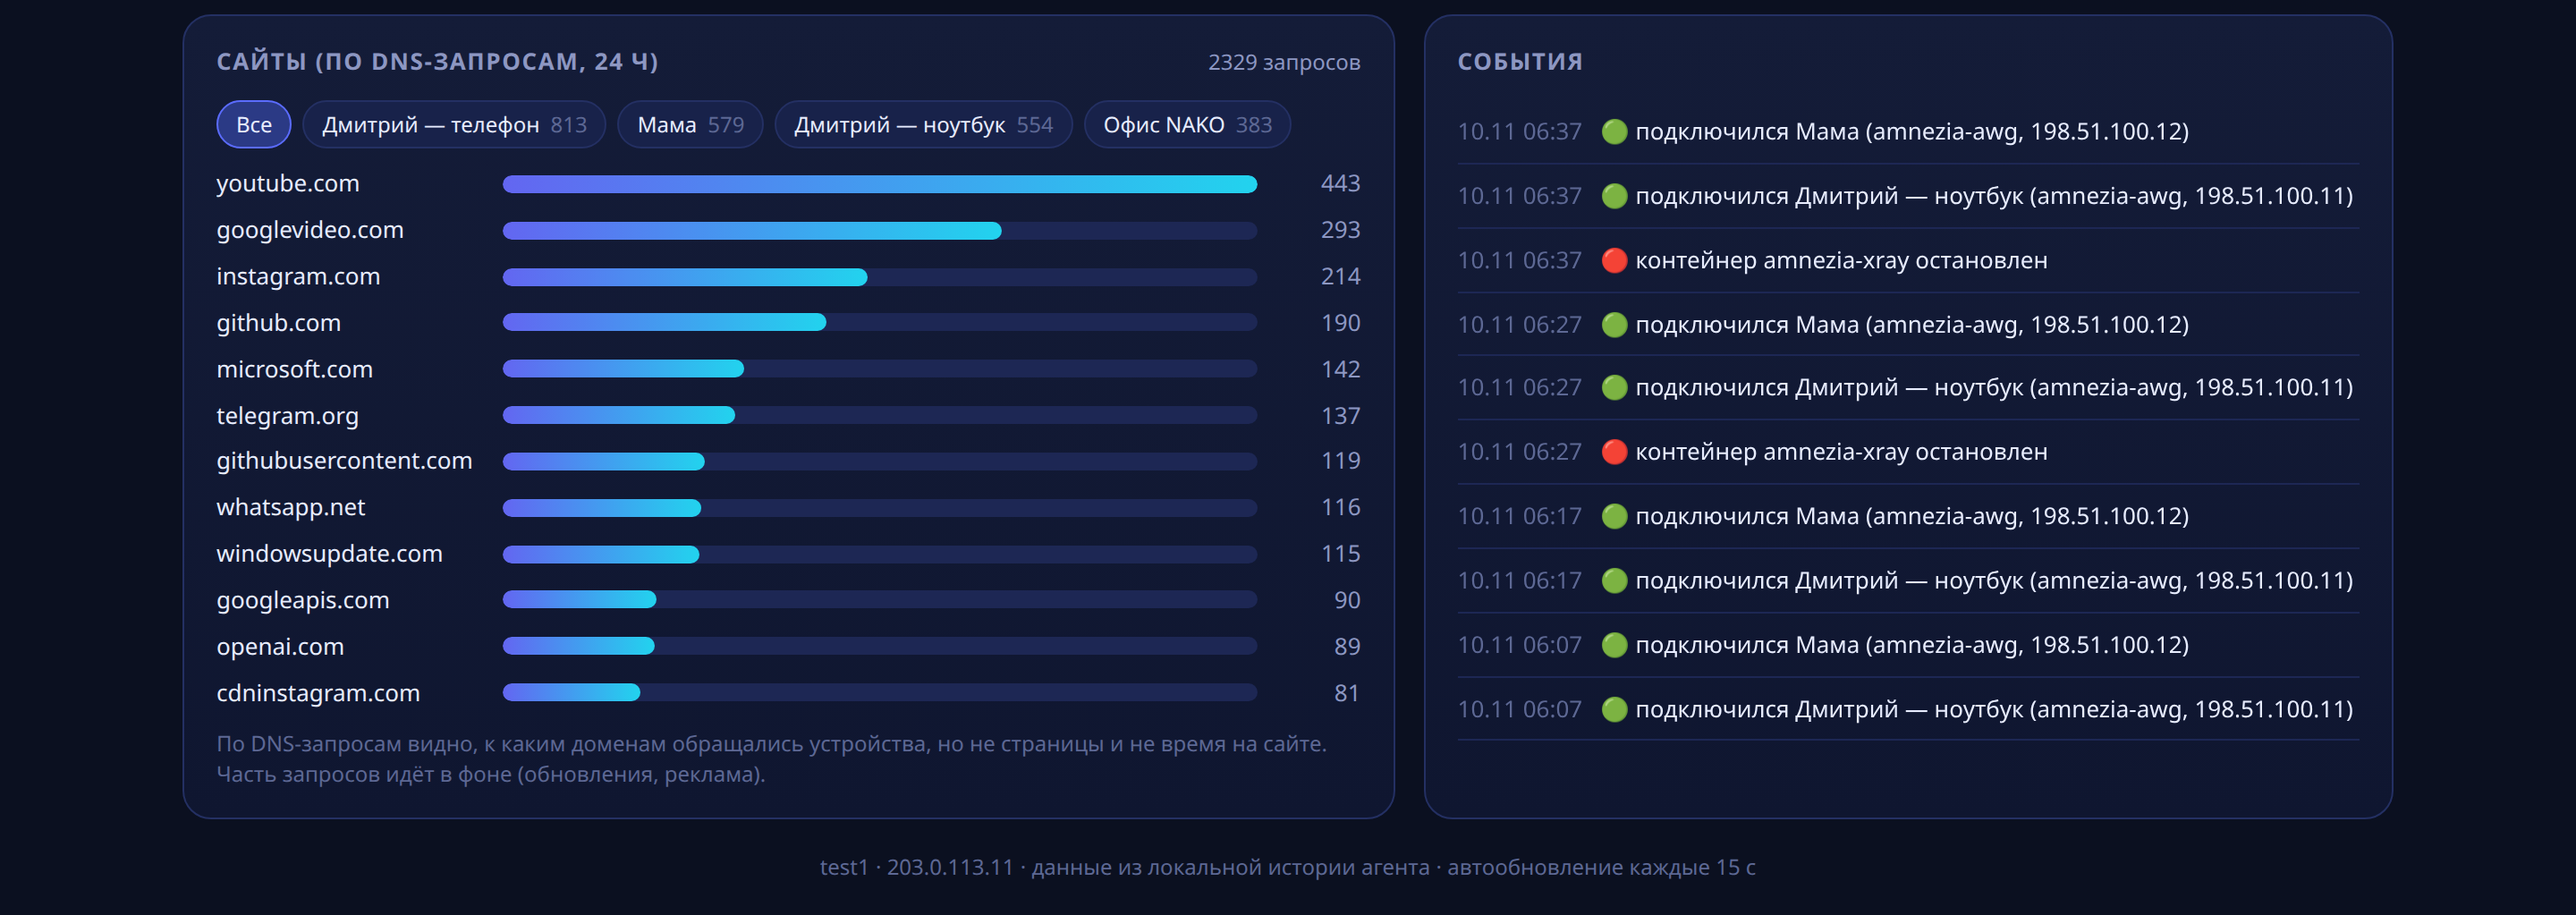
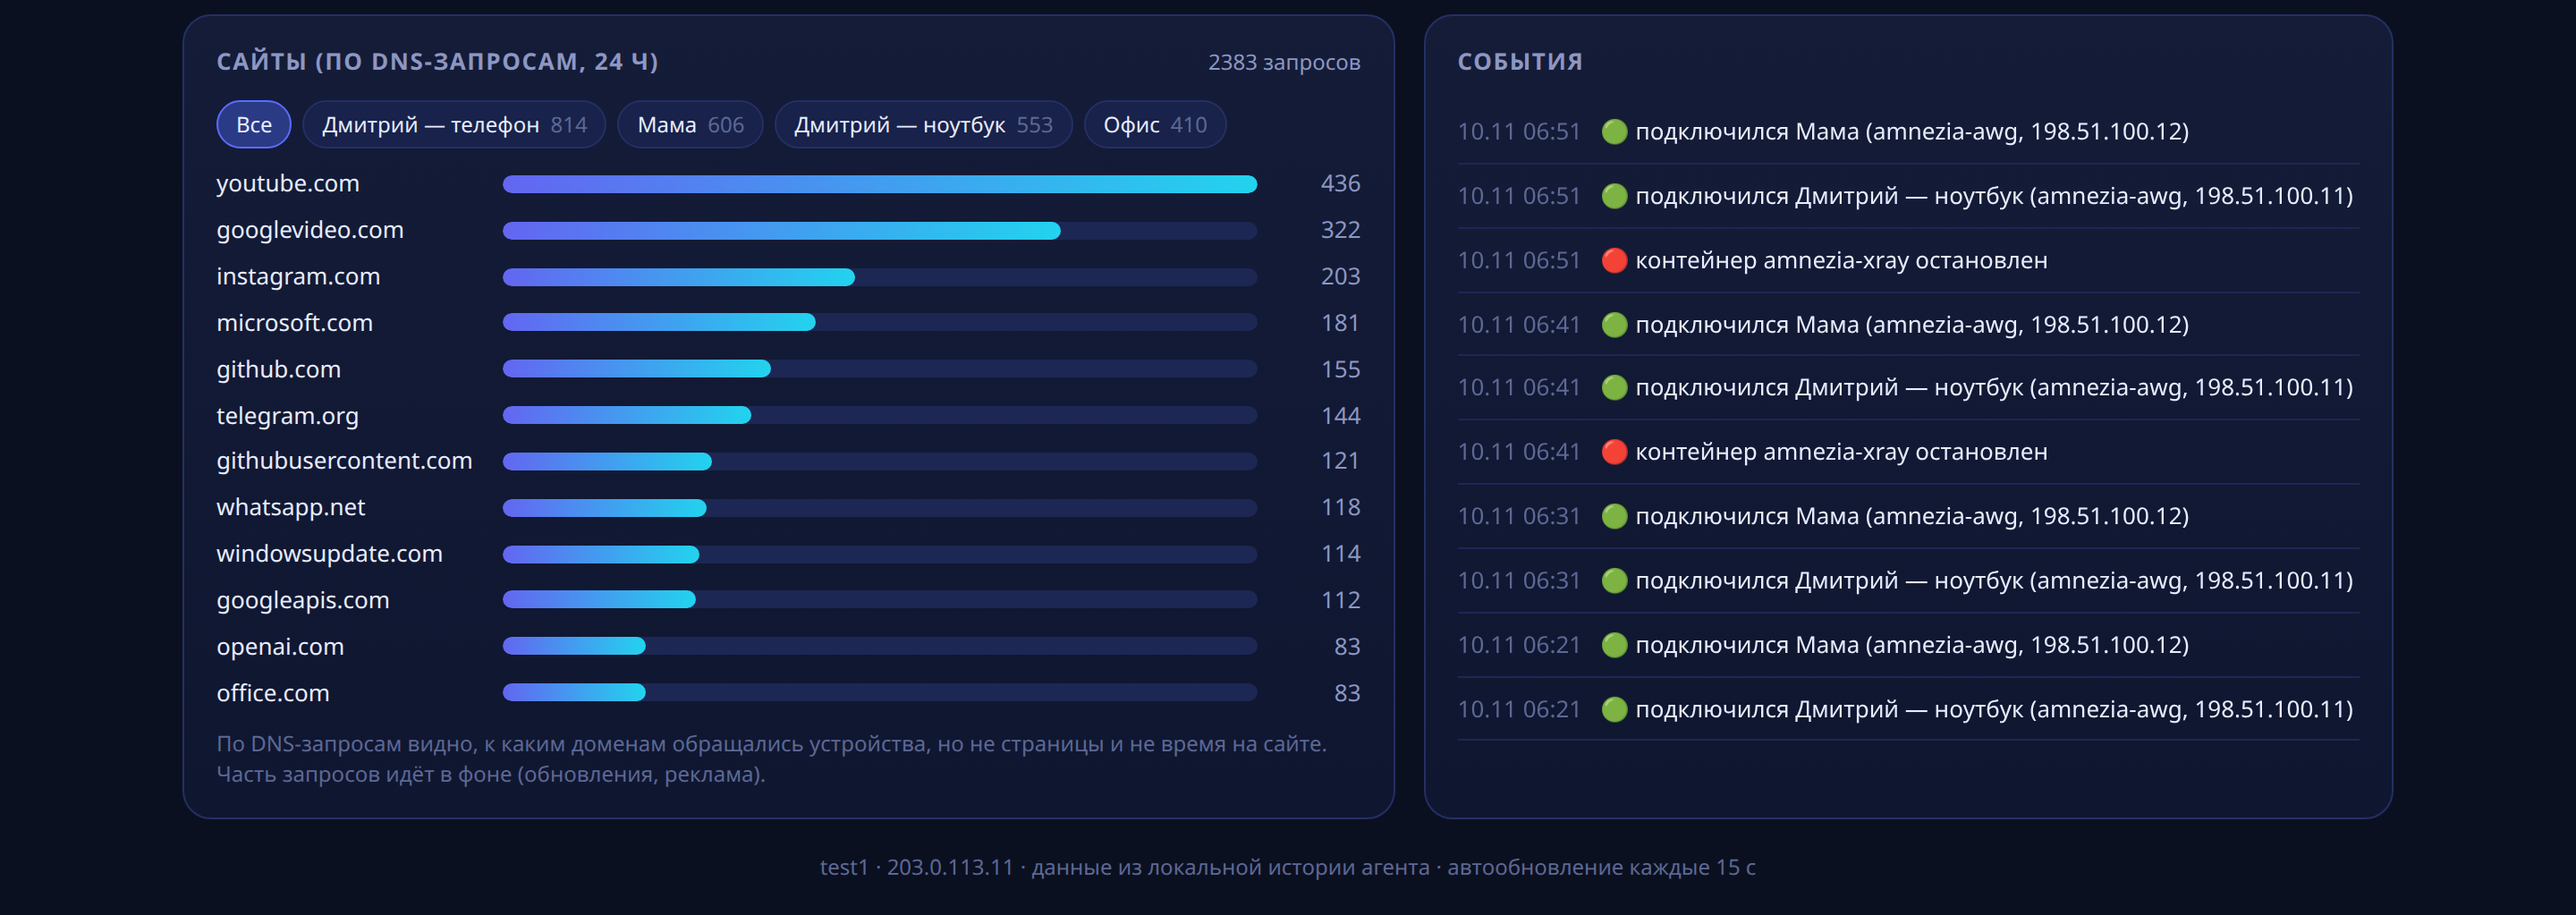
Rename the demo office client and drop the personal PC name.
The sample client is now «Офис», the Windows task comment is generic, and the dashboard screenshots that showed the old name are recaptured from demo mode.

diff --git a/demo_data.py b/demo_data.py
@@ -23,7 +23,7 @@ def fake_key(seed: str) -> str:
 
 CLIENTS = {  # server -> [(client name, container)]
     "test1": [("Дмитрий — телефон", "amnezia-awg"), ("Дмитрий — ноутбук", "amnezia-awg"),
-              ("Мама", "amnezia-awg"), ("Офис NAKO", "amnezia-awg")],
+              ("Мама", "amnezia-awg"), ("Офис", "amnezia-awg")],
     "test2": [("Брат", "amnezia-wireguard"), ("Телевизор", "amnezia-wireguard")],
     "test3": [("Дача — роутер", "amnezia-awg")],
     "test4": [("Резервный", "amnezia-awg")],
@@ -146,7 +146,7 @@ DASH_USERS = [
      ["github.com", "githubusercontent.com", "openai.com", "googleapis.com", "stackoverflow.com", "youtube.com", "microsoft.com"]),
     ("Мама", "test1", "amnezia-awg", set(range(10, 23)), 90_000,
      ["youtube.com", "googlevideo.com", "whatsapp.net", "instagram.com", "facebook.com", "rutube.ru"]),
-    ("Офис NAKO", "test1", "amnezia-awg", set(range(9, 18)), 260_000,
+    ("Офис", "test1", "amnezia-awg", set(range(9, 18)), 260_000,
      ["microsoft.com", "windowsupdate.com", "office.com", "zoom.us", "googleapis.com"]),
     ("Брат", "test2", "amnezia-wireguard", set(list(range(0, 2)) + list(range(16, 24))), 650_000,
      ["twitch.tv", "steamcontent.com", "discord.com", "youtube.com", "googlevideo.com", "reddit.com"]),
